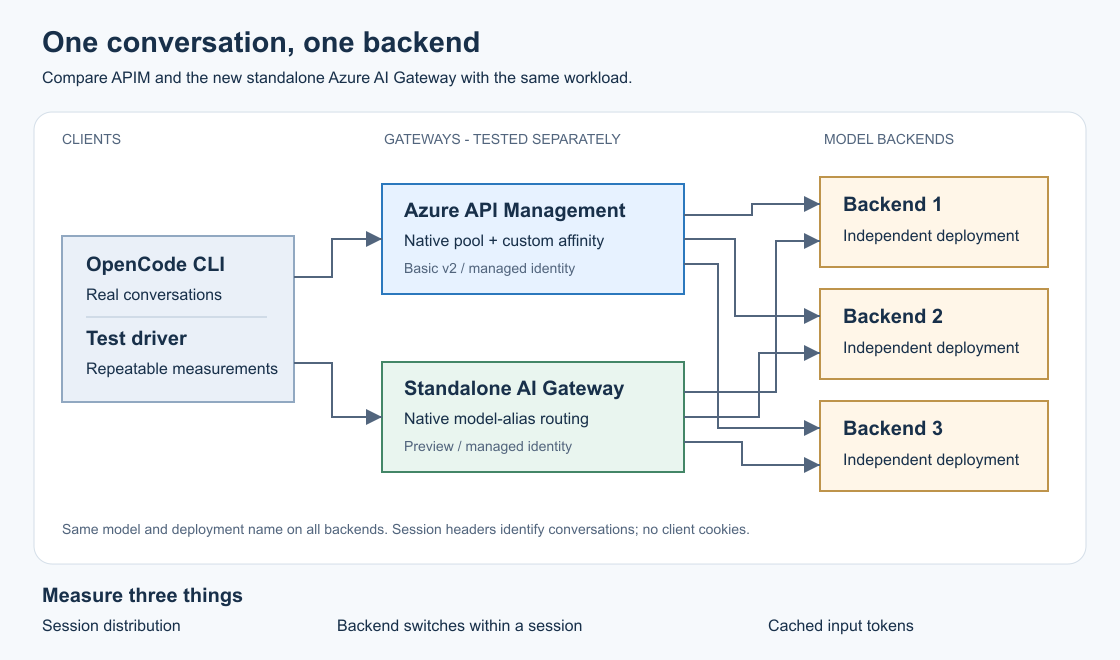
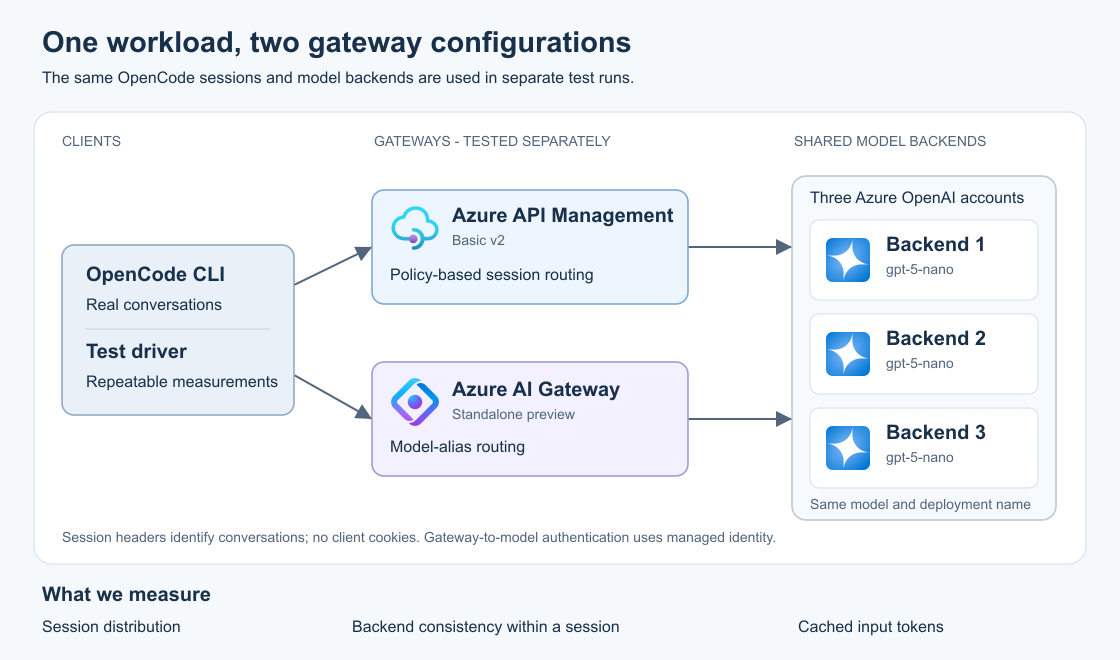
Clarify native gateway affinity and simplify the architecture diagram
Distinguish measured APIM policy behavior from the documented standalone session-affinity configuration. Preserve measured evidence and original Azure icon artwork.

diff --git a/docs/REPORT.md b/docs/REPORT.md
@@ -4,64 +4,72 @@
 **Client:** OpenCode 2.2.5  
 **Scope:** three identical model backends, cookie-free sessions, and basic recovery.
 
-## What we found
+## Results in brief
 
-**APIM met the session-routing requirement.** Its policy distributed 60 sessions across the three backends in a 20 / 23 / 17 split. Every healthy first attempt reached the expected backend. Controlled 429, 503, and DNS failures were recovered without failed client requests.
+**APIM's configurability allowed us to implement and validate the required routing.** A custom policy distributed 60 sessions across three backends in a **20 / 23 / 17** split. Every healthy first-attempt selection matched the expected backend. All requests completed during the controlled 429, 503, and unavailable-hostname tests.
 
-**The tested standalone Azure AI Gateway configuration did not meet the requirement.** With the existing OpenCode session headers, all 60 sessions in the final repeat still changed backend. An isolated DNS failure returned HTTP 500 for all 12 affected requests.
+**Standalone Azure AI Gateway also has a documented native session-affinity feature.** Additional research identified its session-key expression and routing-order settings. The original measurements used ordinary pools with this feature disabled. Native affinity with OpenCode remains **documented and awaiting a separate runtime test**.
 
-**A cache-saving advantage from stickiness was not demonstrated.** Cached input stayed near 91% after the first turn even when requests changed backend. A separate controlled probe confirmed cached-token reuse across the three accounts for this Global Standard setup. The original assumption that every deployment change necessarily makes the cache cold was not reproduced.
+**A cache-saving advantage from affinity was not demonstrated with this model.** Cached input stayed near 91% after the first turn with standard balancing too. A separate probe confirmed reported cache reuse across the three model accounts in this Global Standard setup.
 
-## What was deployed
+## Test setup
 
 ![Laboratory architecture](architecture.png)
 
-The [editable SVG](architecture.svg) was prepared and rendered with Inkscape.
+The [editable SVG](architecture.svg) uses official Azure service icons and straight connectors, rendered with Inkscape.
 
-- One Azure API Management **Basic v2** unit.
-- One dedicated standalone Azure AI Gateway **Standard preview** resource.
-- Three separate Azure OpenAI accounts in **Sweden Central**.
-- Identical deployments: **gpt-5-nano**, version **2025-08-07**, deployment name **gpt-5-nano**, **Global Standard**.
-- A capped Log Analytics workspace and an Application Insights component for telemetry setup.
+The isolated lab contained one **APIM Basic v2** unit, one **standalone AI Gateway Standard preview**, three Azure OpenAI accounts in **Sweden Central**, Log Analytics, and Application Insights. Each account deployed **gpt-5-nano**, version **2025-08-07**, deployment name **gpt-5-nano**, using **Global Standard**. Physical inference placement is service-managed.
 
-Global Standard uses service-managed inference placement. The resource region alone does not establish where each inference executed. Both gateways used managed identities with inference permission scoped to the three accounts; model API-key authentication was disabled.
+Both gateways used managed identities scoped to the model accounts; model API-key authentication was disabled. All seven top-level resources belonged to a new ownership-tagged group. Existing subscription resources were left unchanged.
 
-All seven top-level resources were created in one new, ownership-tagged lab group. Existing subscription resources were left unchanged. The separately authorized provider registrations remain registered.
+Each comparison ran **60 sessions of six turns**, at **36 requests/minute**, with about **5,200-5,300 input tokens**, a tool definition, and growing history. Unique early prefixes kept first turns cold. Two rounds produced **4,320 completed requests**. Six cases ran concurrently; the repeat used eleven session workers to avoid accidental alignment with three-way round-robin scheduling.
 
-## How the test worked
+Actual serving accounts were identified by joining response request IDs to model diagnostics. Coverage was **100% for all 2,160 repeat requests** and about **59-62%** in the first round. Unmatched observations remain unknown. A pool name was never counted as a serving account.
 
-Each comparative case ran **60 sessions of six turns**, at **36 requests/minute**. Prompts contained about **5,200-5,300 tokens** of synthetic instructions, a tool definition, and growing conversation history. Each session/run had an early unique prefix. Every first turn reported zero cached tokens.
+## Measured comparison
 
-Two complete rounds produced **4,320 completed requests and zero failures**. Six cases ran concurrently against the same three accounts. The first round used twelve concurrent session workers; the repeat used eleven. The second count avoids a scheduling pattern that can accidentally keep a session aligned with a three-way round-robin cycle.
+This table shows the eleven-worker repeat. Each row contains **360 completed requests and zero client errors**. Backend counts are in **b1 / b2 / b3** order. Cached input is the token-weighted cached/total input ratio for turns **two through six**.
 
-Serving-backend identity was checked by joining response request IDs to the actual model-account diagnostic logs. **All 2,160 requests in the repeat were matched.** Initial-round log coverage remained about 59-62%; those unmatched observations remain unknown. APIM's direct-backend headers additionally identify its explicit selections. A configured pool name was never counted as a serving model account.
+| Configuration | Requests per backend | Sessions changing backend | Cached input |
+|---|---:|---:|---:|
+| APIM, b1 preferred | 353 / 6 / 1 | 7, during recovery | 90.92% |
+| APIM, standard pool | 119 / 120 / 121 | 60 / 60 | 90.92% |
+| APIM, session-affinity policy | 119 / 137 / 104 | 3, during recovery | 91.52% |
+| Standalone gateway, one backend | 360 / 0 / 0 | 0 / 60 | 89.64% |
+| Standalone gateway, standard pool | 120 / 120 / 120 | 60 / 60 | 90.59% |
+| Standalone gateway, pool with session headers | 121 / 121 / 118 | 60 / 60 | 91.53% |
 
-"Cached input" below means cached input tokens divided by total input tokens, weighted by tokens, for turns **two through six**. Latency includes the network, gateway, and model. The first-token measurement ignores role-only stream events. A successful stream requires a finish reason and the final completion marker.
+APIM affinity assigned **33.3% / 38.3% / 28.3%** of sessions to the backends, within the specified 20-45% range. The original round had **zero switches and 360/360 expected first attempts**. In the repeat, **357/360 requests (99.17%)** completed on the expected first attempt; three recovered elsewhere. All 357 healthy first-attempt selections were correct.
 
-## Comparison
+The APIM reference also retained automatic recovery: seven repeat requests used another backend following transient 500 responses and circuit-breaker activity. The original strict reference served **360/360 on b1**, with **91.22%** cached input. Affinity stayed within five percentage points of that reference in both rounds. No intentional faults overlapped comparison runs; the transient responses' root cause was not established.
 
-The following table shows the eleven-worker repeat. Backend counts are completed requests in **b1 / b2 / b3** order.
+The historical standalone alias named `sticky` had the same equal-weight pool as `balanced`. Sending session headers alone left ordinary load balancing active. These rows measure pool behavior; they leave the native-affinity configuration below unmeasured.
 
-| Configuration | Requests per backend | Sessions changing backend | Cached input | Failed requests |
-|---|---:|---:|---:|---:|
-| APIM, b1 preferred | 353 / 6 / 1 | 7, during recovery | 90.92% | 0 / 360 |
-| APIM, standard pool | 119 / 120 / 121 | 60 / 60 | 90.92% | 0 / 360 |
-| APIM, session-affinity policy | 119 / 137 / 104 | 3, during recovery | 91.52% | 0 / 360 |
-| Standalone gateway, one backend | 360 / 0 / 0 | 0 / 60 | 89.64% | 0 / 360 |
-| Standalone gateway, standard pool | 120 / 120 / 120 | 60 / 60 | 90.59% | 0 / 360 |
-| Standalone gateway, session headers supplied | 121 / 121 / 118 | 60 / 60 | 91.53% | 0 / 360 |
+## Native AI Gateway configuration
 
-The APIM reference retains automatic recovery. Seven calls in the repeat used a fallback after transient 500 responses/circuit-breaker activity; it therefore became a b1-preferred reference. The **original strict one-backend run served 360/360 requests on b1**, with **91.22%** cached input after turn one.
+The current [session-affinity documentation](https://ai.gateway.azure.com/docs/models/session-affinity) describes deterministic backend preference from a string session key. The [configuration guide](https://ai.gateway.azure.com/docs/models/guides/configure-session-affinity) explicitly covers coding clients that send their conversation context on every turn.
 
-For APIM affinity, the original round had **zero switches and 360/360 expected first attempts**. In the repeat, **357/360** requests completed on their expected first attempt (**99.17%**); three requests recovered elsewhere. All **357 healthy first-attempt selections were correct**, with **zero unexplained first-attempt mismatches**. No intentional fault injection overlapped these comparative runs. The root cause of the transient 500 responses was not established.
+For this workload, apply the following in the **AI Gateway portal**, in workspace **default**, by editing a dedicated model alias such as **gpt-5-nano-affinity**:
 
-Initial affinity assignments were **20 / 23 / 17 sessions**, or **33.3% / 38.3% / 28.3%**. Each backend was inside the specified 20-45% range. The affinity cached-input ratio was within five percentage points of the strict single-backend reference in both rounds.
+1. Select the same three `lab-chat` backend registrations and leave automatic model selection off.
+2. Under **Session affinity**, enable **Enable session affinity**.
+3. Enter this Common Expression Language (CEL) expression:
 
-The standalone alias named `sticky` was a probe using its normal equal-weight pool and the existing client headers. No documented header-affinity setting was found in the tested CLI/configuration surface. Its healthy-session switches directly fail the stickiness check, despite its high cache ratio.
+   ```cel
+   'x-opencode-session' in request.headers ? request.headers['x-opencode-session'][0] : ''
+   ```
 
-### Latency and retries
+4. Give all targets priority **0** and weight **1**.
+5. Under **Routing order**, select **Session affinity before priority**, then save.
+6. Point OpenCode's normal model setting to this alias. It already sends the required header.
 
-Values are milliseconds. p50 is the median; p95 is the value at or below which 95% of requests completed.
+This reads an existing conversation header and requires no cookies or application changes. An absent header returns an empty key, allowing the other routing settings to distribute requests. According to the documentation, affinity bypasses weights when it selects a backend. An unavailable or excluded preferred backend invokes the remaining routing settings; its original preference is retained. Changing the backend set can change the mapping.
+
+The original CLI-based reproduction script never set the native `sessionBackendPreference` property. A dedicated rerun should now measure distribution, healthy-session consistency, cache usage, missing-header behavior, streaming, and recovery with this setting enabled. **No new Azure resources were created during this documentation review.**
+
+## Latency and recovery
+
+Values below are milliseconds, including network, gateway, and model time. p50 is the median; 95% of observations are at or below p95. First-token timing excludes role-only events. Streams were checked for a finish reason and final completion marker.
 
 | Configuration | First token p50 / p95 | Total p50 / p95 | Retried requests |
 |---|---:|---:|---:|
@@ -70,82 +78,72 @@ Values are milliseconds. p50 is the median; p95 is the value at or below which 9
 | APIM, affinity | 409 / 682 | 534 / 794 | 3 |
 | Standalone, one backend | 418 / 753 | 520 / 834 | Unknown |
 | Standalone, standard pool | 453 / 691 | 505 / 789 | Unknown |
-| Standalone, session-header probe | 449 / 706 | 517 / 815 | Unknown |
+| Standalone, pool with session headers | 449 / 706 | 517 / 815 | Unknown |
 
-The standalone gateway did not expose per-request attempt counts through the collected telemetry. Gateway-only overhead was not isolated, and these measurements do not establish a gateway-specific latency advantage.
+Standalone per-request attempt counts and gateway-only overhead were not available in the collected evidence.
 
-## Failure tests
+Recovery tests injected errors before streaming: a controlled APIM endpoint supplied HTTP 429/503, and a reserved `.invalid` hostname simulated an unavailable endpoint. Actual quota exhaustion was outside the test.
 
-Faults were injected before response streaming. HTTP errors came from a controlled APIM endpoint; DNS unavailability used a reserved `.invalid` hostname. These were synthetic errors, rather than actual model-quota exhaustion.
-
-| Gateway and injected failure | Completed during fault | Failed | Observed retries |
+| Gateway and injected condition | Completed model responses | HTTP 500 responses | Observed retries |
 |---|---:|---:|---:|
 | APIM: HTTP 429 | 12 / 12 | 0 | 4 requests |
 | APIM: HTTP 503 | 12 / 12 | 0 | 4 requests |
-| APIM: DNS unavailable | 12 / 12 | 0 | 4 requests |
+| APIM: unavailable hostname | 12 / 12 | 0 | 4 requests |
 | Standalone: HTTP 429 | 12 / 12 | 0 | Unknown |
 | Standalone: HTTP 503 | 12 / 12 | 0 | Unknown |
-| Standalone: isolated DNS unavailable | 0 / 12 | 12, HTTP 500 | Unknown |
+| Standalone: isolated unavailable hostname | 0 / 12 | 12 | Unknown |
 
-For the isolated standalone DNS test, a fresh provider/priority alias first completed six healthy requests. After its primary endpoint became unavailable, twelve requests failed. Six healthy control requests succeeded after restoration, which was also checked by reading back the endpoint.
+The isolated standalone test used a fresh provider/priority alias, with six healthy controls before the change and six after restoration. The twelve outage requests returned HTTP 500. An earlier sequential probe had different results after HTTP-error tests; prior health state was not isolated there. This observation applies to the tested transport-recovery configuration and is separate from native session affinity.
 
-An earlier sequence appeared to recover the standalone DNS case after HTTP failures. Existing health/ejection state could have hidden the unavailable primary. That sequence is retained as exploratory evidence; the fresh-provider test provides the isolated result. Older exploratory HTTP tests also had uncertainty about forwarding a path prefix.
-
-APIM made at most three attempts, with a 45-second forward timeout and a 180-second test-client deadline. Affected requests moved to a healthy neighbor; the original home backend was preferred again after recovery. No tested DNS recovery used the policy's additional buffered `on-error` branch, so that branch remains unqualified. Recovery after partial streamed output was outside this test.
+APIM used at most three attempts, a 45-second forward timeout, and a 180-second client deadline. Affected requests moved to a healthy neighbor; the home backend was preferred again after recovery. The additional buffered recovery branch and recovery after partial streaming remain untested.
 
 ## What the cache measurements establish
 
-Three extra trials sent an identical new prompt through APIM to **b1, then b2, then b3, then b1**. Routing was deliberately changed by the session header while the request body stayed identical. All twelve serving-account identities were independently matched to resource logs.
+Three additional trials sent an identical new prompt through APIM to **b1, then b2, then b3, then b1**. Only the session header changed. All twelve serving-account identities were independently matched to resource logs.
 
-In every trial, the first b1 request reported **zero** cached tokens. The first b2 and b3 requests each reported **4,992** cached tokens. The final b1 request hit in two trials and missed in one.
+In every trial, the first b1 request reported **zero cached tokens**. The first b2 and b3 requests each reported **4,992**. The final b1 request hit in two trials and missed in one.
 
-These are measured usage values. They demonstrate that changing the account/deployment did not necessarily remove reported cache reuse in this same-subscription Global Standard experiment. Worker identity and physical cache ownership were unavailable. Shared infrastructure is a possible explanation, but its implementation was not established.
-
-Consequently, this lab supports APIM for explicit session placement and tested recovery. It provides **no measured cost-saving claim from affinity** for this model/deployment combination. Recheck cache isolation and benefit for the customer's actual model, deployment type, and regions.
+Thus, changing account/deployment preserved reported cache reuse in this same-subscription Global Standard experiment. Physical cache ownership and worker identity were unavailable. Recheck the customer's model, deployment type, and regions before estimating a financial benefit from affinity.
 
 ## OpenCode and edge cases
 
-The exact official **2.2.5** binary completed real conversations through both gateways, using both the recorder and ordinary direct provider configuration. Completed `ACK` output and terminal stop events were checked.
+The official **OpenCode 2.2.5** binary completed real conversations through both gateways in observed and ordinary direct-provider modes. Completed `ACK` output and terminal stop events were checked.
 
-| Question | Result |
+| Question | Evidence |
 |---|---|
-| Four supplied session headers carry the same `ses_` identifier | Confirmed on the tested binary. |
-| Continue with `--session` | Same identifier across separate CLI invocations. |
-| Start a new conversation | New identifier. |
-| Cookie-based affinity usable | The mock returned a cookie; the client returned none. |
-| Project ID stable; tracing changes | Confirmed for the captured project ID and `traceparent`. |
+| Session headers identify the conversation | The four observed headers carried the same `ses_` identifier. |
+| Continue with `--session`; start a new conversation | Continuation preserved the identifier across invocations; a new conversation changed it. |
+| Cookie handling | A mock returned a cookie; the client returned none. |
+| Project and tracing headers | Project identifier stayed stable; `traceparent` changed. |
 | Vendor OpenCode gateway requires a particular header | Unverified; that gateway was outside the lab. |
-| Compaction, long-term saved-session restoration, title model, subagents | Unverified. Explicit titles and denied tools kept the test focused. |
-| Another client's generic affinity header identifies a conversation | Unverified; each client needs its own header contract. |
-| Custom APIM expressions accepted | The deployed SHA-256, string, regex, JSON, and backend-selection expressions ran successfully. |
+| Compaction, long-term restoration, title model, subagents | Unverified. Explicit titles and denied tools kept the test focused. |
+| Another client's generic affinity header identifies a conversation | Unverified; establish a separate client header contract. |
+| APIM expression support | The deployed SHA-256, string, regex, JSON, and backend-selection expressions ran successfully. |
 
-**33 APIM edge checks passed**, including non-streaming requests, each supported header on its own, reconnection, and explicit rejection of conflicting, oversized, or space-containing identifiers. Twenty-four requests without a session header were distributed **6 / 9 / 9**; they have no session-affinity guarantee.
+**33 APIM edge checks passed**, covering non-streaming, individual header alternatives, reconnection, and explicit handling of conflicting or malformed identifiers. Twenty-four requests without a session header distributed **6 / 9 / 9**, with ordinary request-level balancing.
 
-## Choice and follow-up
+## Implementation choice and production follow-up
 
-The selected APIM policy hashes the model route plus the existing conversation identifier to one of three backends. It needs no shared session database. Equal backend definitions and identical policy configuration are required. The session identifier remains separate from authentication.
+APIM provided the flexibility to combine OpenCode's existing headers, model-specific hashing, identifier validation, and bounded recovery in one policy. The tested mapping uses a fixed three-backend topology and needs no shared session database. Native cookie affinity was excluded because of the client's behavior. More elaborate hashing, external session registries, and response caching were outside this focused lab.
 
-Native cookie affinity was excluded because the client did not return cookies. Standard pools supplied useful distribution and failure controls but did not supply the required header-based placement. The standalone priority/weight configuration was evaluated directly. A shared session registry and more elaborate hashing were deferred to keep this three-backend lab simple. APIM response caching was outside the prompt-cache experiment.
+For standalone AI Gateway, the documented native alias setting is the next configuration to qualify. Keep its future results separate from the historical pool probes.
 
-Before production, monitor backend selection, cached-token ratios, first-token latency, errors, retries, and session hot spots. Alert on unexplained healthy migrations and exhausted recovery. Validate model/region combinations, capacity under failure, identity permissions, and behavior after a partial stream. Multi-unit/multi-region operation, topology changes, hot-key handling, and stateful Responses API failover remain follow-up work. The current modulo-three mapping is intended for a fixed topology.
-
-The native Application Insights exporter attempt returned a server error. Model-account diagnostics supplied the successful independent backend evidence instead.
+Before production, monitor backend selection, cached-token ratios, first-token latency, errors, retries, and session hot spots. Validate capacity during an outage, scoped identity permissions, and partial-stream handling. Multi-unit/multi-region operation, topology changes, hot-key handling, and stateful Responses API failover remain follow-up work.
 
 ## Cost, cleanup, and evidence
 
-The lab used pay-as-you-go models and Basic v2 gateway capacity; no Premium tier or PTU was created. A planning retail lookup returned **USD 0.27/hour** for Basic v2 and **USD 0.04 per 10,000 calls**. Treat these as indicative rates and verify current agreement pricing. Actual invoiced cost and a verified model-token price were unavailable at write-up. Measured token totals and lab timestamps are in the lifecycle evidence; workload bounds were operational guards rather than a hard billing cap.
+The lab used pay-as-you-go models and Basic v2 capacity. The planning lookup returned **USD 0.27/hour** plus **USD 0.04 per 10,000 calls** for APIM. About **75 minutes** corresponds to **USD 0.34** for capacity alone, before request, model, telemetry, and billing-rounding effects. Current agreement prices and actual invoiced cost require separate verification.
 
-The comparison consumed **22,733,280 input tokens**, including **17,207,424 reported cached tokens**, and **43,466 output tokens**. These totals exclude the extra client, edge, and fault checks. The group existed for about **75 minutes**; applying the indicative hourly rate continuously gives about **USD 0.34** for APIM capacity alone, before request, model, telemetry, and any billing-rounding effects.
+Comparisons consumed **22,733,280 input tokens**, including **17,207,424 reported cached tokens**, and **43,466 output tokens**. Extra client, edge, and recovery probes are excluded. Workload limits were operational spending guards.
 
-**Cleanup was verified:** the dedicated resource group no longer existed at **20:55 UTC**. The ownership-checked inventory contained only the seven expected resources. Verification and resource types are recorded in [lifecycle evidence](../results/lifecycle.json). Provider registrations and platform soft-delete records are retained.
+**Cleanup was verified at 20:55 UTC:** the dedicated group and its seven top-level resources were absent. Authorized provider registrations and platform soft-delete records were retained. See [lifecycle evidence](../results/lifecycle.json).
 
-Detailed evidence: [both comparison rounds](../results/comparisons.json), [per-request measurements](../results/requests.jsonl), [fault runs](../results/faults.json), [cache crossover](../results/cache-scope.json), [OpenCode checks](../results/opencode.json), and [edge cases](../results/edge-checks.json). Private raw outputs remain in the ignored local `.lab` directory.
+Detailed evidence: [comparison rounds](../results/comparisons.json), [request measurements](../results/requests.jsonl), [recovery runs](../results/faults.json), [cache crossover](../results/cache-scope.json), [OpenCode checks](../results/opencode.json), and [edge cases](../results/edge-checks.json). Exact reproduction steps and configuration locations are in the [README](../README.md); tested APIM templates are in [policies](../policies/).
 
-Reproduction and exact configuration locations are in the [README](../README.md); the deployed APIM templates are in [policies](../policies/).
+### Primary references
 
-### Documentation used
-
-- [Standalone Azure AI Gateway](https://learn.microsoft.com/azure/ai-gateway/overview) and [CLI routing reference](https://github.com/Azure/aigateway/blob/main/skills/manage-ai-gateway/references/models-and-routing.md).
+- [Standalone Azure AI Gateway overview](https://learn.microsoft.com/azure/ai-gateway/overview), [native session affinity](https://ai.gateway.azure.com/docs/models/session-affinity), [configuration guide](https://ai.gateway.azure.com/docs/models/guides/configure-session-affinity), and [routing order](https://ai.gateway.azure.com/docs/models/routing-order).
 - [APIM backend pools](https://learn.microsoft.com/azure/api-management/backends) and [policy expressions](https://learn.microsoft.com/azure/api-management/api-management-policy-expressions).
-- [Azure OpenAI prompt caching](https://learn.microsoft.com/azure/foundry/openai/how-to/prompt-caching): identical-prefix requirements and usage reporting. The current guide states that caches are not shared across subscriptions; it does not establish a deployment-isolation guarantee for this experiment.
+- [Azure OpenAI prompt caching](https://learn.microsoft.com/azure/foundry/openai/how-to/prompt-caching): identical-prefix requirements and usage reporting. Its cross-subscription isolation statement does not establish deployment-level isolation for this experiment.
 - [Official OpenCode 2.2.5 release](https://github.com/anomalyco/opencode/releases/tag/v2.2.5).
+- [Azure architecture icon terms](https://learn.microsoft.com/azure/architecture/icons/).

diff --git a/README.md b/README.md
@@ -2,7 +2,7 @@
 
 Compare Azure API Management and the new standalone Azure AI Gateway using OpenCode and three identical model deployments. Measure whether independent sessions are distributed and each conversation stays on one backend without cookies.
 
-**Results:** APIM provided cookie-free session affinity and recovered from the tested failures. The standalone gateway's tested pool switched backends within sessions and failed the isolated DNS-outage test. Cached-token reuse remained high with standard balancing too; a cache-saving advantage was not demonstrated with the tested Global Standard model.
+**Results:** APIM's configurable policies delivered the required cookie-free session routing and tested recovery. Standalone AI Gateway has a documented native session-affinity setting identified during follow-up research; the original measurements covered ordinary pools with that setting disabled. Its native configuration awaits a separate runtime test. A cache-saving advantage from affinity was not demonstrated with this Global Standard model.
 
 - [Readable lab report](docs/REPORT.md)
 - [Specification](SPECIFICATION.md)
@@ -56,6 +56,8 @@ Run each command once, or run the six combinations in separate PowerShell proces
 
 Defaults are 60 sessions, six turns, and 36 requests/minute per case. Turns remain ordered within each session. Standard-balancing cases omit session headers; affinity/probe cases send the four OpenCode headers. The standalone alias called `sticky` probes whether those headers influence routing; its configured pool has the same weights as `balanced`.
 
+**Native affinity is disabled in this historical reproduction.** To evaluate the documented feature, create a separate alias in the AI Gateway portal and follow the [OpenCode session-affinity configuration](docs/REPORT.md#native-ai-gateway-configuration). Keep those new results separate from the checked-in pool probes.
+
 The APIM `single` route prefers b1 and retains the common recovery policy. Check its actual backend distribution before treating a run as a strict one-backend reference. The original measured reference served all 360 requests on b1; the later repeat recovered seven calls through other backends.
 
 **Keep fault injection separate from comparison runs.** It temporarily changes a lab backend and can affect other aliases using that backend.
@@ -77,7 +79,7 @@ node .\scripts\opencode-check.mjs mock
 
 Observer mode forwards the unmodified model request through a loopback metadata recorder. Direct mode uses ordinary OpenCode provider settings. Each validation run keeps its own raw outputs and verifies the completed `ACK` response, session continuation, and a new session. The mock returns a cookie to test whether the client sends it back.
 
-Fault scripts restore their endpoint in `finally`. A failed acceptance check returns a nonzero exit code and retains evidence. The isolated native transport probe is expected to fail on the tested preview: 12 requests returned HTTP 500. It creates a fresh provider/alias so earlier HTTP faults cannot pre-eject the primary backend.
+Fault scripts restore their endpoint in `finally`. An unmet acceptance check returns a nonzero exit code and retains evidence. The recorded isolated native transport probe returned HTTP 500 for 12 requests; reruns should record their actual outcomes. It uses a fresh provider/alias to isolate health state from earlier HTTP-error tests.
 
 ### Exact configuration locations
 
@@ -87,6 +89,7 @@ Fault scripts restore their endpoint in `finally`. A failed acceptance check ret
 | APIM policy | API-level `policy` on APIs `single`, `balanced`, and `sticky`; templates in [policies](policies/). |
 | APIM model endpoints | Backend entities `b1`, `b2`, `b3`; pool `pool`; named values `lab-endpoint-b1`, `lab-endpoint-b2`, `lab-endpoint-b3`, populated from private state. |
 | Native gateway routing | Workspace `default`; Foundry providers `b1`/`b2`/`b3`; model registration `lab-chat`; aliases `gpt-5-nano-single`, `gpt-5-nano-balanced`, `gpt-5-nano-sticky`. |
+| Native affinity follow-up | AI Gateway portal, workspace `default`, dedicated alias `gpt-5-nano-affinity`: **Session affinity** expression reads `x-opencode-session`; **Routing order** is **Session affinity before priority**. Not enabled by the reproduction script. |
 | Native client path | `/default/models/openai/v1/chat/completions`; request `model` selects the alias. |
 | OpenCode APIM provider | [Example configuration](examples/opencode-apim.json): `providers.lab.settings.baseURL`, `providers.lab.headers.Ocp-Apim-Subscription-Key`, `model`. |
 | OpenCode native provider | [Example configuration](examples/opencode-aigateway.json): `providers.lab.settings.baseURL`, `providers.lab.settings.apiKey`, `model`. |
@@ -117,6 +120,7 @@ The checked-in results contain both full comparison rounds. The first used twelv
 - Publish only reviewed, sanitized results. Never add Azure token caches or `.lab` to version control.
 - Public repository: [faustinopalma/AI_Gateway_lab_load_balancing](https://github.com/faustinopalma/AI_Gateway_lab_load_balancing).
 - No license is currently specified for the original lab content.
+- Azure service icons in the diagram retain Microsoft's artwork and follow the [Azure architecture icon terms](https://learn.microsoft.com/azure/architecture/icons/).
 
 ## Cleanup
 
@@ -133,6 +137,7 @@ The recorded execution's cleanup status is in [lifecycle evidence](results/lifec
 ## References
 
 - [Standalone Azure AI Gateway overview](https://learn.microsoft.com/azure/ai-gateway/overview)
+- [Native session affinity](https://ai.gateway.azure.com/docs/models/session-affinity) and [configuration guide](https://ai.gateway.azure.com/docs/models/guides/configure-session-affinity)
 - [Official AI Gateway CLI](https://github.com/Azure/aigateway/tree/main/cli)
 - [API Management backends](https://learn.microsoft.com/azure/api-management/backends)
 - [Azure OpenAI prompt caching](https://learn.microsoft.com/azure/foundry/openai/how-to/prompt-caching)
